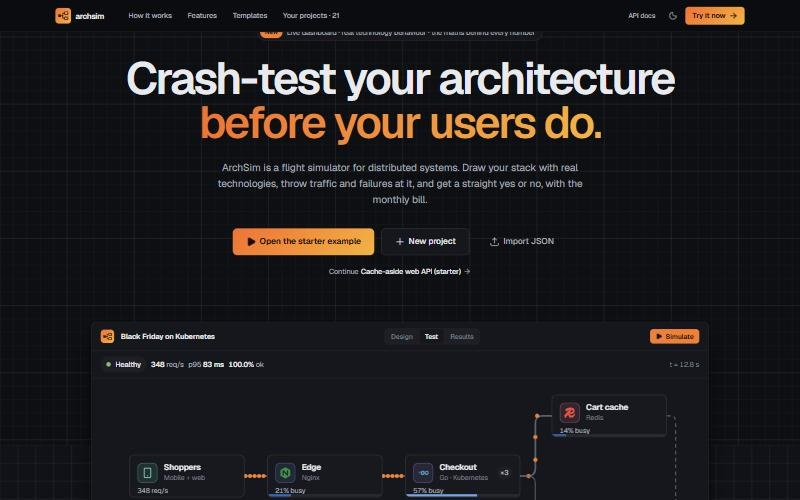
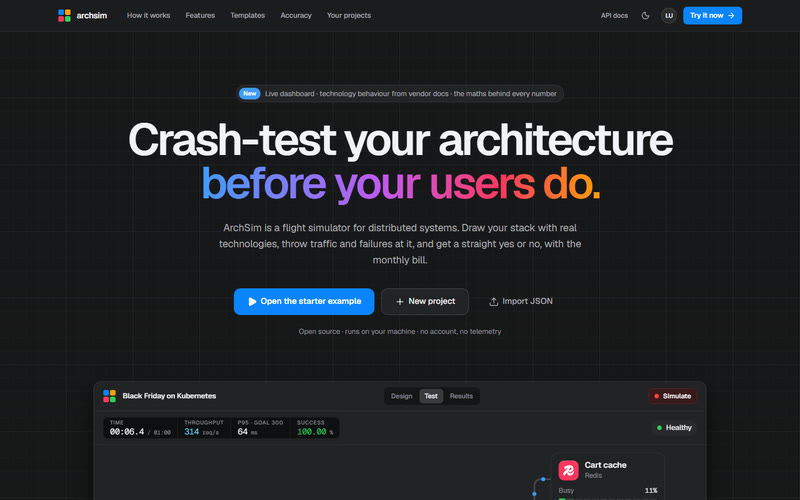
docs(readme): retake the screenshots and add the cache-outage demo GIF
- The 9 README images retaken from main with npm run e2e:capture (real AWS
  prices, confidence line, Review panel, Accuracy link, 10 templates).
- The cache-outage demo GIF (about a minute) leads the README.
- Image descriptions rewritten to match what the new shots show.
- Status doc: the screenshots note and the sign-in limitation are current.

diff --git a/README.md b/README.md
@@ -14,9 +14,13 @@ capacity curves. Same document and seed, same result.
 > comparisons between scenarios more than any single absolute value. See
 > [docs/simulation-model.md](docs/simulation-model.md).
 
-![The Test workspace in the dark Ops console theme, paused at 101.6 s of a Black Friday ramp: Checkout API has scaled out and runs warm, link labels show live request rates, the timeline below shows the traffic ramp, events, latency and failures, and the test plan panel reports that the design held up](docs/images/editor-results.jpg)
+![Demo, about one minute: the cache-aside starter (clients, load balancer, API servers, Redis, PostgreSQL) on AWS us-east-1 prices is opened and simulated, then the "Lose Redis Cache" chaos pad is pressed; the replay shows the outage from 28 to 43 s on the timeline, the API servers saturating while every read goes to PostgreSQL, and the test plan turning to "Didn't hold up": success fell to 92% during the outage](docs/images/cache-outage.gif)
 
-*The Test workspace replaying the Black Friday on Kubernetes template. A demo GIF is still to be recorded.*
+*Losing Redis on the cache-aside starter: press a chaos pad and the verdict flips within seconds.*
+
+![The Test workspace paused at 103.3 s of the Black Friday on Kubernetes ramp (300 → 1,500 req/s): Checkout API has scaled out to 3 pods, link labels show live request rates, the timeline below shows the ramp, events, latency, failures and throughput per part, and the test plan reports that the design did not hold up: p95 561 ms against the 500 ms objective and 98.8% availability against 99.5%](docs/images/editor-results.jpg)
+
+*The Test workspace replaying the Black Friday on Kubernetes template.*
 
 ## What you can do
 
@@ -190,13 +194,13 @@ result digest so it can be re-run and verified bit for bit.
 
 | Dashboard (Grafana-style, synced crosshair) | Results → Details → Calculations |
 | --- | --- |
-| ![The Dashboard workspace in the dark Ops console theme: overview stat panels (947 req/s, p95 434 ms with a warning against the 500 ms objective, 0.24% errors, 99.8% success, 77% max saturation on Checkout API, $1,240 a month), traffic and retry panels, end-to-end latency, time in component and queue wait per component; a crosshair at 48 s shows the same moment on every panel](docs/images/dashboard.jpg) | ![Calculations for the Orders DB (PostgreSQL): formula cards for arrival rate, capacity from slots, utilization, Little's law, the M/M/c queueing model, the hottest row's lock (22% busy), group commit and replica replay capacity (158 writes/s against 192 writes/s per shard), each with this run's numbers filled in](docs/images/calculations.jpg) |
+| ![The Dashboard workspace: overview panels (937 req/s, p95 561 ms against the 500 ms objective, 1.2% errors, 99% success, 79% peak saturation on Checkout API, $1,129 a month at AWS us-east-1 prices of October 2026), request and retry panels with a crosshair at 48 s, end-to-end latency, time in each component and queue wait per component](docs/images/dashboard.jpg) | ![Results → Details for the Orders DB (PostgreSQL): the technology behaviour in effect (row locks on writes, readers that never wait for writers, group commit, asynchronous replicas with lag), then calculation cards with this run's numbers filled in: arrival rate 303 req/s, capacity from slots, utilization 1.9%, Little's law 3.46 requests, the M/M/c queueing model and capacity from CPU](docs/images/calculations.jpg) |
 | **Results → Details → Request traces** | **Design: how PostgreSQL behaves** |
-| ![A traced 216 ms write on a waterfall: network legs, time in the API gateway and Checkout API, the Orders DB query and its write-ahead log flush (hovered: at 42.7 ms for 0.85 ms), then a slow third-party payment call](docs/images/traces.jpg) | ![Design workspace in the standard light theme: the whole Black Friday diagram on the canvas with Orders DB selected; the side panel shows "How PostgreSQL behaves" with row locks, MVCC reads, group commit and asynchronous replicas, each with a Docs link](docs/images/build.jpg) |
+| ![A traced 169 ms write on a waterfall: network legs, time in the API gateway and Checkout API, the Orders DB query and its write-ahead log flush, then a slow third-party payment call; the list beside it mixes evenly spread, slowest and failed requests](docs/images/traces.jpg) | ![The Design workspace in the light theme: the Black Friday diagram with Orders DB selected; the side panel shows its technology (PostgreSQL), how it did in the last run (2% busy, CPU caps it at 2,404 req/s, replica lag up to 18.3 ms), its settings and its resources sized as a real db.m6g.xlarge at $0.32 an hour (AWS us-east-1 prices of 2026-10-27), with the chaos pads below the canvas](docs/images/build.jpg) |
 | **Results → Answer** | **Home** |
-| ![Results answer in the standard light theme: "Yes, it holds up." Meets all 2 objectives at 950 req/s; 947 req/s handled, p95 434 ms, 99.8% success, $1,240 per month; worth a look: the main cause of failed requests, and "Orders DB replicas lag up to 18.9 s behind the primary" with 3,158 of 8,363 replica reads stale](docs/images/scorecard.jpg) | ![Landing page in the dark theme: "Crash-test your architecture before your users do." with the second line in an orange gradient, above a live product shot of the Black Friday design](docs/images/home.jpg) |
+| ![Results → Answer in the light theme: "No, it doesn't hold up." Latency p95 561 ms against at most 500 ms and availability 98.8% against at least 99.5%, a note that p95 is within 15% of the objective from one seed with a Check 5 seeds button, Checkout API as the primary bottleneck, "Low confidence: 29 of 42 inputs are illustrative defaults" with how to raise it and the measured accuracy, then 937 req/s handled, p95 561 ms (608 ms counting failures as timeouts), 98.8% success and $1,129 a month at AWS prices, the queueing-formula estimate, a Review panel and the first findings](docs/images/scorecard.jpg) | ![Landing page in the dark theme: "Crash-test your architecture before your users do." with the second line in a blue-to-orange gradient, above a live product shot of the Black Friday design](docs/images/home.jpg) |
 | **Results → Compare** | **Templates gallery** |
-| ![Cost vs. speed map in the dark theme: monthly cost against p95 for every scenario run, the p95 objective line and the Pareto frontier, with a table of options](docs/images/tradeoffs.jpg) | ![The templates gallery in the dark theme: counts (8 templates, 35 scenarios, 16 technologies), category filters and search, and the featured Black Friday on Kubernetes template drawn as logo tiles (Shoppers, Kong API gateway, Go checkout, Redis catalog cache, PostgreSQL orders, payments API) with traffic flowing along the links, beside its description, "Built with" list, key numbers and a Use this template button](docs/images/templates.jpg) |
+| ![Results → Compare: monthly cost against p95 for every scenario of the Black Friday template at AWS us-east-1 prices, with the p95 objective line and the Pareto frontier (which leaves out runs where more than 0.5% failed), and a table of the options; every scenario misses the objectives](docs/images/tradeoffs.jpg) | ![The templates gallery in the dark theme: counts (10 templates, 45 scenarios to compare, 18 technologies), category filters and search, and the featured Black Friday on Kubernetes template, marked Labs, drawn as logo tiles (Shoppers, Kong API gateway, Go checkout, Redis catalog cache, PostgreSQL orders, payments API) beside its description and Built with list](docs/images/templates.jpg) |
 
 ## How accurate is it?
 

diff --git a/IMPLEMENTATION_STATUS.md b/IMPLEMENTATION_STATUS.md
@@ -1135,9 +1135,11 @@ With Docker Desktop (Docker 29, Compose 2.40) on the same machine:
   and hosts sharing PostgreSQL need synchronised clocks for leases.
 - `throughputRps` counts by completion time and can be slightly above `offeredRps`.
 - "Queue kept growing" needs at least 4 time buckets inside the measurement window.
-- No authentication or multi-user support; bind to localhost only.
-- README screenshots are 800x500 captures of the previous Ops console look; they need retaking
-  if the Studio look is kept (`npm run e2e:capture` does it). The demo GIF is not committed yet.
+- Sign-in is optional (`ARCHSIM_AUTH_MODE=oauth`, GitHub and Google); without it the app is
+  single-user, so keep it bound to localhost. Real OAuth apps have not been tried yet.
+- README screenshots and the demo GIF (`docs/images/cache-outage.gif`, about a minute, 7 MB)
+  were retaken on 2026-10-27 from `main` with `npm run e2e:capture`; retake them after visible
+  changes.
 - The UI was checked by hand in one browser engine (Chromium in the desktop app): earlier looks
   at 1280x800 and 1440x900, the Studio look at 1440x900, 1100x760 and 375x812, in dark and
   light. The one end-to-end test covers the main path in Chromium at 1440x900; there are no
